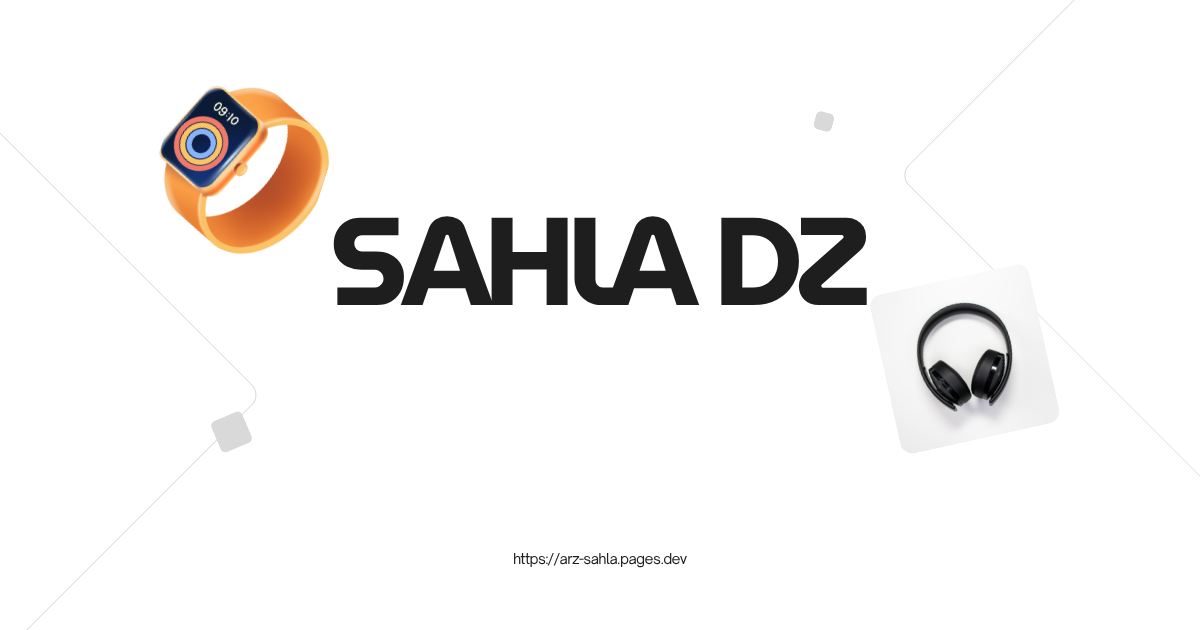
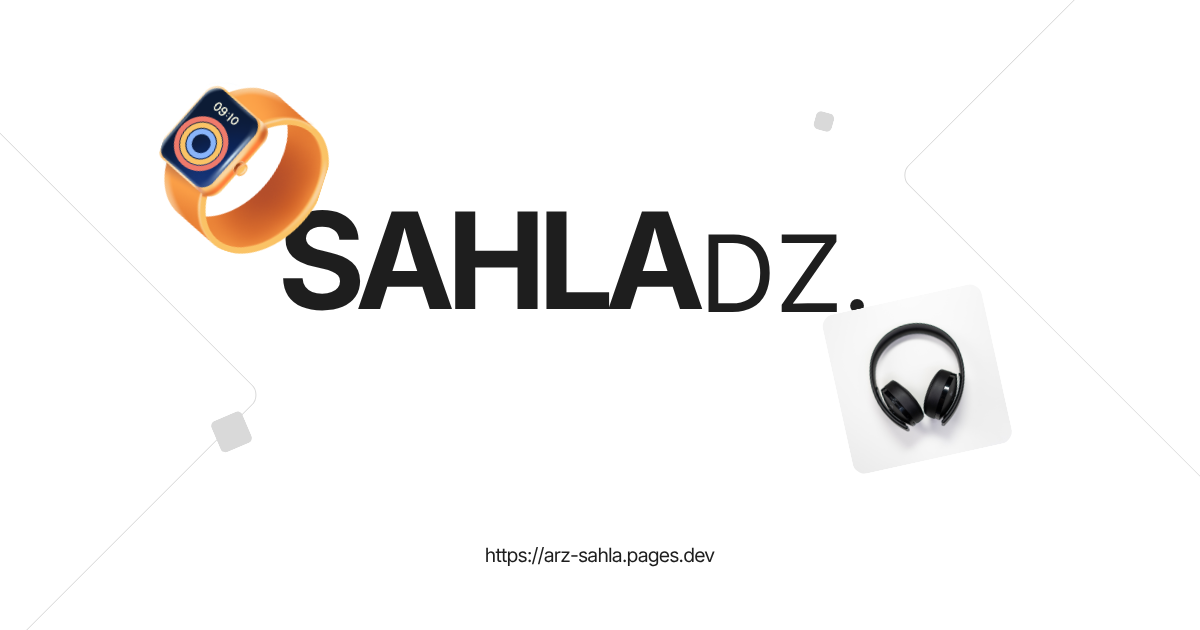
feat: Implement product detail, order success, account, login, register, and admin pages, alongside header, footer, and SEO components.

Changed region(s): [[0.2158, 0.3317, 0.74, 0.5127], [0.7092, 0.4825, 0.8633, 0.6937], [0.4008, 0.8746, 0.5858, 0.9048]]

diff --git a/src/components/store/Footer.tsx b/src/components/store/Footer.tsx
@@ -10,7 +10,14 @@ export const Footer: React.FC = () => {
     <footer className="bg-surface-high text-gray-600 py-16 mt-20 border-t border-gray-200/50">
       <div className="container mx-auto px-4 grid grid-cols-1 md:grid-cols-4 gap-12 text-right">
         <div className="space-y-4">
-          <h3 className="text-xl font-display font-bold text-gray-900 tracking-tighter">Sahla DZ</h3>
+          <div className="flex items-baseline gap-0 select-none" dir="ltr">
+            <span className="font-display font-black text-gray-900 text-xl tracking-tight uppercase leading-none">
+              SAHLA
+            </span>
+            <span className="font-display font-light text-gray-900 text-base tracking-tight uppercase leading-none">
+              dz.
+            </span>
+          </div>
           <p className="text-sm leading-relaxed">
             {t('footer.about')}
           </p>

diff --git a/src/components/store/Header.tsx b/src/components/store/Header.tsx
@@ -15,8 +15,13 @@ export const Header: React.FC = () => {
   return (
     <header className="glass-header w-full">
       <div className="container mx-auto px-4 h-20 flex items-center justify-between">
-        <Link to="/" className="text-2xl font-display font-bold text-primary tracking-tighter">
-          Sahla DZ
+        <Link to="/" className="flex items-baseline gap-0 select-none" dir="ltr" aria-label="SAHLA dz. — الصفحة الرئيسية">
+          <span className="font-display font-black text-gray-900 text-2xl tracking-tight uppercase leading-none">
+            SAHLA
+          </span>
+          <span className="font-display font-light text-gray-900 text-lg tracking-tight uppercase leading-none">
+            dz.
+          </span>
         </Link>
 
         <nav className="hidden md:flex items-center gap-8">

diff --git a/src/pages/Terms.tsx b/src/pages/Terms.tsx
@@ -24,7 +24,7 @@ export default function Terms() {
             <div className="flex flex-col md:flex-row md:items-end justify-between gap-8">
               <div>
                 <h1 className="text-6xl md:text-9xl font-display font-bold text-gray-900 tracking-tighter leading-none mb-6">
-                  Sahla DZ
+                  SAHLA dz.
                 </h1>
                 <p className="text-sm font-bold uppercase tracking-[0.3em] text-primary italic">
                   الشروط والأحكام — سياسة الإرجاع والاستبدال
@@ -63,7 +63,7 @@ export default function Terms() {
                       اسم المتجر
                     </span>
                     <span className="font-display font-bold text-gray-900 text-xl tracking-tight">
-                      Sahla DZ
+                      SAHLA dz.
                     </span>
                   </div>
                   <div className="p-8 bg-white">
@@ -313,7 +313,7 @@ export default function Terms() {
                   </p>
                 </div>
                 <div className="mt-20 font-display font-bold text-gray-300 text-xs uppercase tracking-[0.5em]">
-                  Sahla DZ — Architectural Archive 2026
+                  SAHLA dz. — Architectural Archive 2026
                 </div>
               </section>
             </div>

diff --git a/src/pages/admin/AdminCategories.tsx b/src/pages/admin/AdminCategories.tsx
@@ -9,10 +9,9 @@ import {
   useCategories, 
   useDeleteCategory, 
   useUpdateCategory, 
-  useCreateCategory 
+  useCreateCategory,
+  Category 
 } from '../../hooks/useCategories';
-
-type Category = Database['public']['Tables']['categories']['Row'];
 
 export default function AdminCategories() {
   const { data: categories = [], isLoading: loading } = useCategories();

diff --git a/src/pages/OrderSuccess.tsx b/src/pages/OrderSuccess.tsx
@@ -64,7 +64,7 @@ export default function OrderSuccess() {
 
   return (
     <>
-      <SEOMeta title="تأكيد الاستحواذ — Sahla DZ" />
+      <SEOMeta title="تأكيد الاستحواذ — SAHLA dz." />
       <div className="bg-white min-h-screen">
         <div className="container mx-auto px-4 py-16 md:py-32 max-w-5xl">
           {/* Header Section */}
@@ -88,7 +88,7 @@ export default function OrderSuccess() {
             <div className="lg:col-span-7 space-y-12">
               <div className="space-y-6">
                 <h2 className="text-3xl font-display font-bold text-gray-900 tracking-tight leading-tight">
-                  شكراً لتسوقك من Sahla DZ. <br/> تم تأكيد استلام طلبك بنجاح.
+                  شكراً لتسوقك من SAHLA dz. <br/> تم تأكيد استلام طلبك بنجاح.
                 </h2>
                 <p className="text-gray-400 text-sm leading-relaxed max-w-md uppercase tracking-widest font-bold">
                   Your acquisition has been logged. Our curators will verify the details and contact you within 24 hours via WhatsApp or Phone for final fulfillment.

diff --git a/index.html b/index.html
@@ -34,7 +34,7 @@
   <link rel="preconnect" href="https://fonts.googleapis.com" />
   <link rel="preconnect" href="https://fonts.gstatic.com" crossorigin />
   <link
-    href="https://fonts.googleapis.com/css2?family=Inter:wght@400;500;600;700&family=Outfit:wght@400;500;600;700&display=swap"
+    href="https://fonts.googleapis.com/css2?family=Inter:wght@400;500;600;700&family=Outfit:wght@300;400;500;600;700;900&display=swap"
     rel="stylesheet" />
 </head>
 

diff --git a/src/components/shared/SEOMeta.tsx b/src/components/shared/SEOMeta.tsx
@@ -1,7 +1,7 @@
 import React from 'react';
 import { Helmet } from 'react-helmet-async';
 
-const SITE_NAME = 'Sahla DZ';
+const SITE_NAME = 'SAHLA dz.';
 const SITE_URL = 'https://arz-sahla.pages.dev';
 const DEFAULT_OG_IMAGE = `${SITE_URL}/og-image.jpg`;
 const DEFAULT_DESCRIPTION =

diff --git a/src/pages/Account.tsx b/src/pages/Account.tsx
@@ -198,7 +198,7 @@ export default function Account() {
                   </div>
                   <p className="text-[10px] text-gray-400 font-bold uppercase tracking-widest leading-relaxed italic">
                     You have securely documented {orders.length} acquisitions in
-                    your Sahla DZ archive.
+                    your SAHLA dz. archive.
                   </p>
                 </div>
               </div>

diff --git a/src/pages/Login.tsx b/src/pages/Login.tsx
@@ -126,7 +126,7 @@ export default function Login() {
 
           <div className="mt-32 pt-8 border-t border-surface-high text-center">
             <span className="text-[10px] font-bold uppercase tracking-[0.5em] text-gray-200">
-              Sahla DZ — Security Protocol 2026
+              SAHLA dz. — Security Protocol 2026
             </span>
           </div>
         </div>

diff --git a/src/pages/ProductDetail.tsx b/src/pages/ProductDetail.tsx
@@ -147,7 +147,7 @@ export default function ProductDetail() {
                 product.stock_quantity > 0
                   ? 'https://schema.org/InStock'
                   : 'https://schema.org/OutOfStock',
-              seller: { '@type': 'Organization', name: 'Sahla DZ' },
+              seller: { '@type': 'Organization', name: 'SAHLA dz.' },
             },
             aggregateRating:
               product.avg_rating > 0

diff --git a/src/pages/Register.tsx b/src/pages/Register.tsx
@@ -172,7 +172,7 @@ export default function Register() {
 
           <div className="mt-24 pt-8 border-t border-surface-high text-center">
             <span className="text-[10px] font-bold uppercase tracking-[0.5em] text-gray-200">
-              Sahla DZ — Registration Protocol 2026
+              SAHLA dz. — Registration Protocol 2026
             </span>
           </div>
         </div>

diff --git a/src/pages/admin/AdminDashboard.tsx b/src/pages/admin/AdminDashboard.tsx
@@ -304,7 +304,7 @@ export default function AdminDashboard() {
 
       <AdminPageHeader
         title="نظرة عامة / Dashboard"
-        subtitle="متابعة سريعة لأداء Sahla DZ اليوم"
+        subtitle="متابعة سريعة لأداء SAHLA dz. اليوم"
         kicker="DAILY BUSINESS SNAPSHOT"
         actions={
           <>